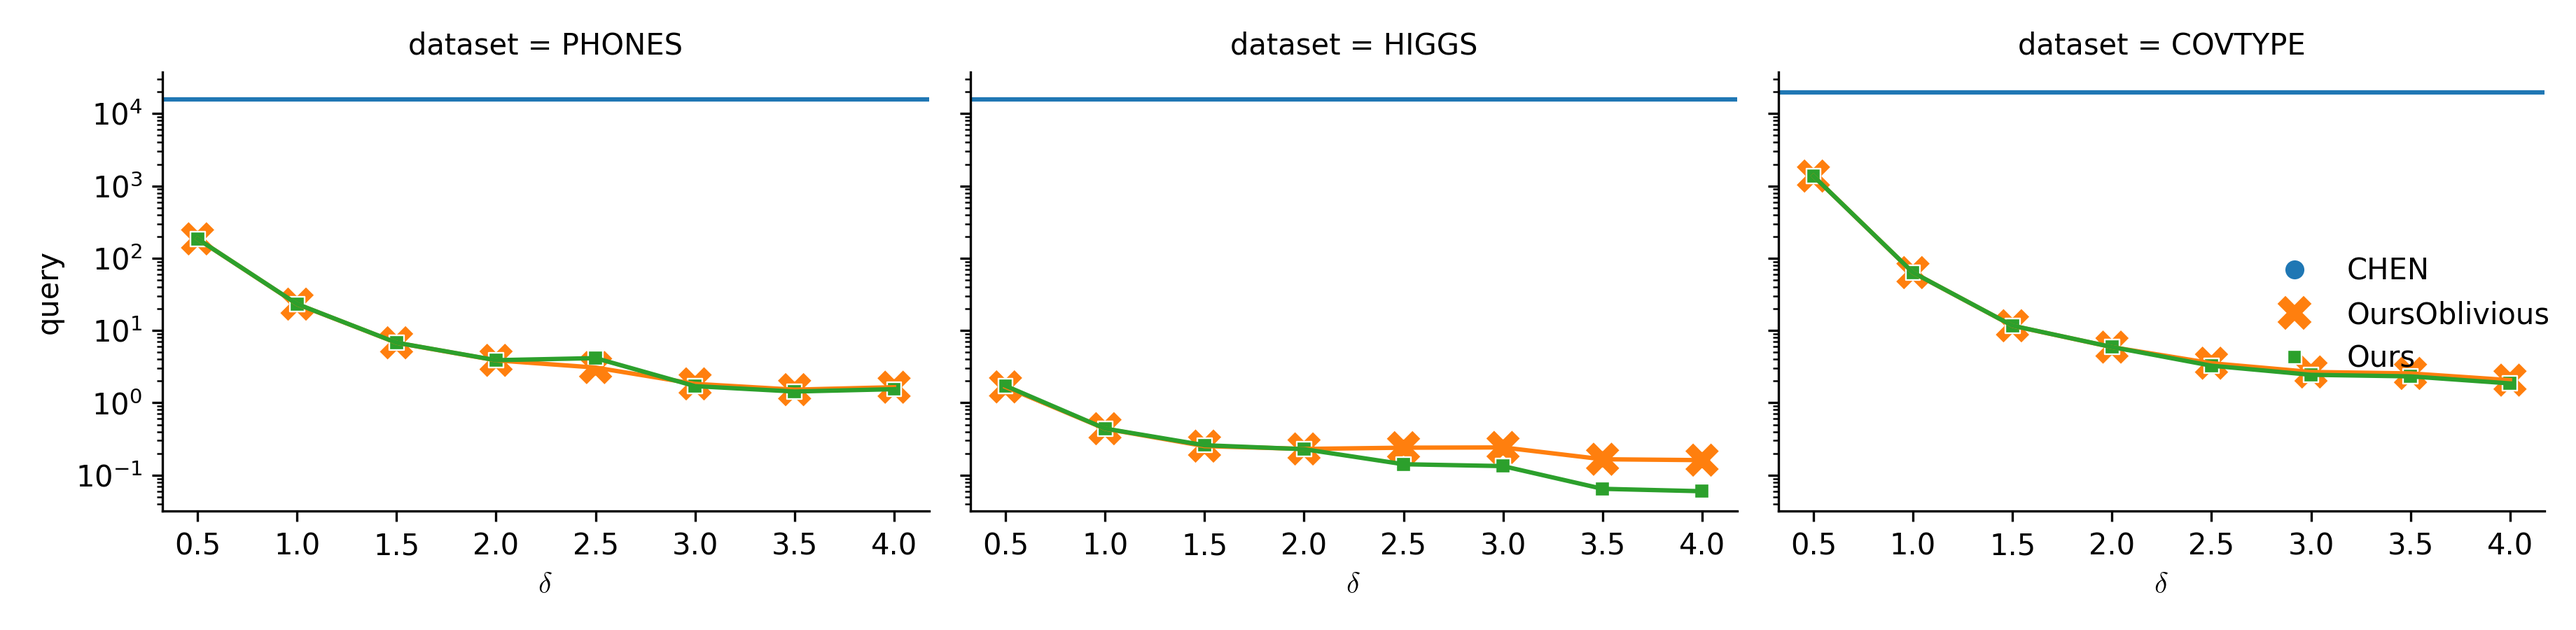
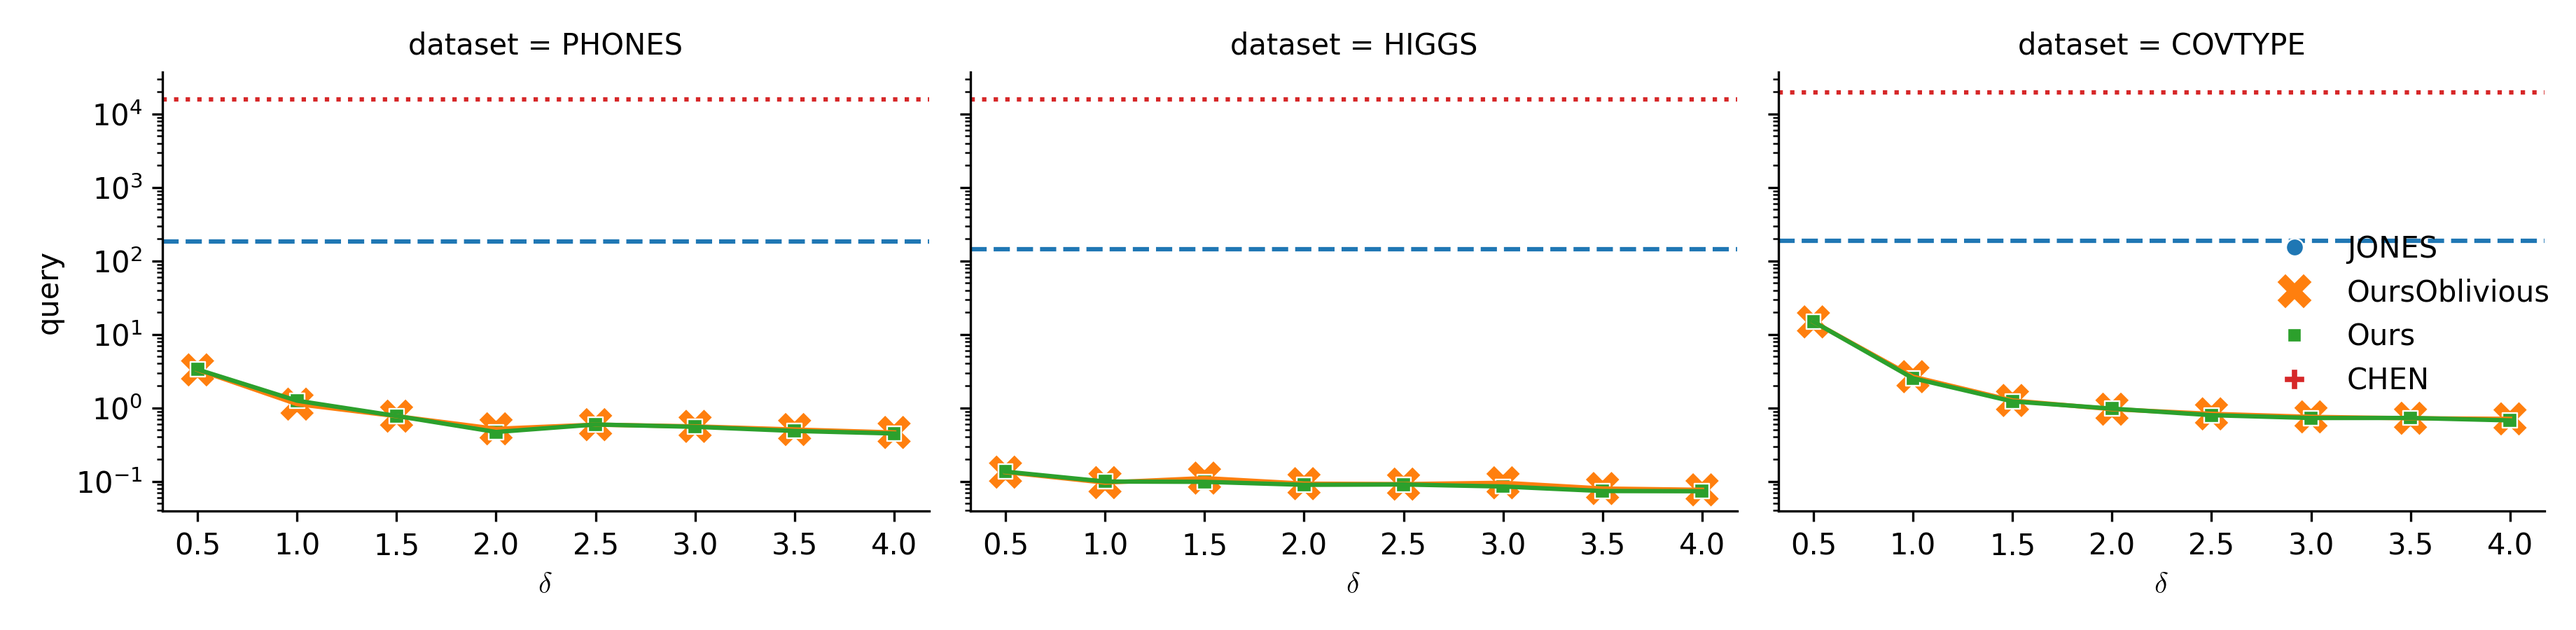
update plots

diff --git a/results/delta_lines.py b/results/delta_lines.py
@@ -1,3 +1,4 @@
+import os.path
 import numpy as np
 from icecream import ic
 import seaborn as sns
@@ -20,6 +21,13 @@ for i in datasets:
     file_names.append(x_axis + "_" + i)
 output_file = "graphs/" + type_of_graph + "_lines"
 
+COLORS = sns.color_palette()
+PALETTE = {
+    "JONES": COLORS[0],
+    "OursOblivious": COLORS[1],
+    "Ours": COLORS[2],
+    "CHEN": COLORS[3],
+}
 
 def replace_dots_with_commas(file_path):
     """
@@ -70,6 +78,13 @@ def filter(df):
         pl.col("dataset") != "NORMALIZED",
     )
     df = df.with_columns(
+        pl.col("update").str.replace(",", ".").cast(pl.Float64).alias("update"),
+        pl.col("query").str.replace(",", ".").cast(pl.Float64).alias("query"),
+        pl.col("radius").str.replace(",", ".").cast(pl.Float64).alias("radius"),
+        pl.col("memory").str.replace(",", ".").cast(pl.Float64).alias("memory"),
+        pl.col("ratio").str.replace(",", ".").cast(pl.Float64).alias("ratio"),
+    )
+    df = df.with_columns(
         pl.col("algorithm").str.extract(r"DELTA(\d+)").cast(pl.Float64).alias("delta") / 10
     )
     df = df.with_columns(
@@ -77,9 +92,9 @@ def filter(df):
     ).with_columns(
         pl.col("algorithm").str.replace(r"CAPPDELTA(\d+)", "Ours")
     ).filter(
-        pl.col("algorithm").is_in(["CHEN", "Ours", "OursOblivious"])
+        pl.col("algorithm").is_in(["JONES", "CHEN", "Ours", "OursOblivious"])
     )
-    df = df.filter(pl.col("wsize").is_in([10000, 50000, 500000]))
+    df = df.filter(pl.col("wsize").is_in([10000]))
     df = df.with_columns(
         ( pl.col("update") / 1e6 ).alias("update"),
         ( pl.col("query") / 1e6 ).alias("query")
@@ -88,19 +103,23 @@ def filter(df):
 
 
 def hline(data, **kwargs):
-    baseline = data[data["algorithm"] == "CHEN"]
+    baseline = data[data["algorithm"].isin(["JONES", "CHEN"])]
     ax = plt.gca()
-    for bline in baseline[kwargs["y"]]:
-        ax.axhline(bline, c=kwargs["color"])
+    for _, bline in baseline.iterrows():
+        color_group = bline["algorithm"]
+        yline = bline[kwargs["y"]]
+        ax.axhline(yline, 
+                   c=kwargs["palette"][color_group], 
+                   linestyle=kwargs["dashes"][color_group])
 
 
-def load(file):
-    input_file = "experiments_results/" + file + ".csv"
+def load(file, basedir="experiments_results/"):
+    input_file = basedir + file + ".csv"
     if replace_commas:
         replace_dots_with_commas(input_file)
     df = pl.read_csv(source=input_file, separator=";", infer_schema_length=10000)
     df = ( df
-        .with_columns(pl.lit(file.split("_")[1].upper())
+        .with_columns(pl.lit(file.split("_")[-1].upper())
         .alias("dataset"))
     )
     if "wsize" not in df.columns:
@@ -128,11 +147,15 @@ def read_and_plot_bar(output_file_path):
 
     dataframe = []
     for dataset in datasets:
-        file = "wsize_" + dataset
-        df = load(file)
+        # file = "wsize_jones_" + dataset
+        # df = load(file)
+        # dataframe.append(df)
+        file = "type_jones_" + dataset
+        df = load(file)#.filter(pl.col("algorithm") == "Ours")
         dataframe.append(df)
+        # Add CHEN results
         file = "type_" + dataset
-        df = load(file).filter(pl.col("algorithm") == "Ours")
+        df = load(file, "experiments_results/CHEN/").filter(pl.col("algorithm") == "CHEN")
         dataframe.append(df)
     dat = pl.concat(dataframe)
     dat = dat.filter(pl.col("wsize") == 10000)
@@ -152,6 +175,7 @@ def read_and_plot_bar(output_file_path):
             x="delta",  # x axis
             y=graph,  # y axis
             hue="algorithm",  # color
+            palette=PALETTE
         )
         g.map_dataframe(
             sns.scatterplot,  # barplot or lineplot
@@ -160,6 +184,7 @@ def read_and_plot_bar(output_file_path):
             hue="algorithm",  # color
             size="algorithm",
             style="algorithm",
+            palette=PALETTE,
             sizes=list( np.array([1, 1, 3]) * 50 ),
             size_order=["CHEN", "Ours", "OursOblivious"],
         )
@@ -167,13 +192,15 @@ def read_and_plot_bar(output_file_path):
             hline,
             y=graph,  # y axis
             hue="algorithm",  # color
+            palette=PALETTE,
+            dashes={"CHEN": ":", "JONES": "--"}
         )
         g.set_xlabels(r"$\delta$", usetex=True)
         g.add_legend()
         if graph == "query":
             plt.yscale("log")
         plt.tight_layout()
-        plt.savefig(ic(output_file_path + "_" + graph + ".png"), dpi=300)  # save plot
+        plt.savefig(output_file_path + "_" + graph + ".png", dpi=300)  # save plot
 
 
 # USE

diff --git a/results/wsize_lines.py b/results/wsize_lines.py
@@ -10,15 +10,23 @@ type_of_graph = "wsize"
 
 # Parameters
 x_axis = "wsize"
-y_axis = ["update", "query", "memory"] # we can omit the ratio because it is rather uninteresting: we always get the same result as Chen
+y_axis = ["query", "memory"] # we can omit the ratio and the update because it is rather uninteresting: we always get the same result as Chen
 color = "algorithm"
 
 # File to read from
 datasets = ["phones", "higgs", "covtype"]
 file_names = []
 for i in datasets:
-    file_names.append(x_axis + "_" + i)
+    file_names.append(x_axis + "_jones_" + i)
 output_file = "graphs/" + type_of_graph + "_lines"
+
+COLORS = sns.color_palette()
+PALETTE = {
+    "JONES": COLORS[0],
+    "OursOblivious": COLORS[1],
+    "Ours": COLORS[2],
+    "CHEN": COLORS[3],
+}
 
 
 def replace_dots_with_commas(file_path):
@@ -54,7 +62,6 @@ def replace_dots_with_commas(file_path):
     except Exception as e:
         print(f"An error occurred: {e}")
 
-
 def filter(df):
     """
     Filters the given DataFrame `df` depending on the type of graph.
@@ -67,8 +74,14 @@ def filter(df):
     """
     df = df.filter(
         pl.col("dataset") != "RANDOM",
-        pl.col("algorithm") != "PELLCAPP",
         pl.col("dataset") != "NORMALIZED",
+    )
+    df = df.with_columns(
+        pl.col("update").str.replace(",", ".").cast(pl.Float64).alias("update"),
+        pl.col("query").str.replace(",", ".").cast(pl.Float64).alias("query"),
+        pl.col("radius").str.replace(",", ".").cast(pl.Float64).alias("radius"),
+        pl.col("memory").str.replace(",", ".").cast(pl.Float64).alias("memory"),
+        pl.col("ratio").str.replace(",", ".").cast(pl.Float64).alias("ratio"),
     )
     df = df.with_columns(
         pl.col("algorithm").str.extract(r"DELTA(\d+)").cast(pl.Float64).alias("delta") / 10
@@ -78,14 +91,14 @@ def filter(df):
     ).with_columns(
         pl.col("algorithm").str.replace(r"CAPPDELTA(\d+)", "Ours")
     ).filter(
-        pl.col("algorithm").is_in(["CHEN", "Ours", "OursOblivious"])
+        pl.col("algorithm").is_in(["JONES", "CHEN", "Ours", "OursOblivious"])
     )
-    # df = df.filter(pl.col("wsize").is_in([10000, 50000, 500000]))
     df = df.with_columns(
         ( pl.col("update") / 1e6 ).alias("update"),
         ( pl.col("query") / 1e6 ).alias("query")
-    ).filter(pl.col("wsize") >= 10000)
+    )
     return df
+
 
 
 def hline(data, **kwargs):
@@ -111,19 +124,32 @@ def read_and_plot_bar(output_file_path):
         if file == "random" or file == "higgs":
             continue
         input_file = "experiments_results/" + file + ".csv"
+        ic(input_file)
         if replace_commas:
             replace_dots_with_commas(input_file)
         df = pl.read_csv(source=input_file, separator=";", infer_schema_length=10000)
-        df = df.with_columns(pl.lit(file.split("_")[1].upper()).alias("dataset"))
+        df = df.with_columns(pl.lit(file.split("_")[-1].upper()).alias("dataset"))
         # FILTERS
         df = filter(df)
         dataframe.append(df)
+
+        # Add CHEN results
+        input_file = "experiments_results/CHEN/" + file + ".csv"
+        input_file = input_file.replace("_jones", "")
+        df = pl.read_csv(source=input_file, separator=";", infer_schema_length=10000)
+        df = df.with_columns(pl.lit(file.split("_")[-1].upper()).alias("dataset"))
+        df = df.filter(
+            pl.col("algorithm") == "CHEN",
+            pl.col("wsize") >= 10000
+        )
+        df = filter(df)
+        dataframe.append(df)
+
     dat = ( pl
         .concat(dataframe)
         .filter(( pl.col("delta") == 0.5 ) | (pl.col("delta").is_null()))
     )
 
-    ic(dat)
 
     for graph in y_axis:
         g = sns.FacetGrid(
@@ -151,8 +177,8 @@ def read_and_plot_bar(output_file_path):
             hue="algorithm",  # color
             size="algorithm",
             style="algorithm",
-            sizes=list( np.array([1, 1, 2]) * 50 ),
-            size_order=["CHEN", "Ours", "OursOblivious"],
+            sizes=list( np.array([1, 1, 1, 2]) * 50 ),
+            size_order=["JONES", "CHEN", "Ours", "OursOblivious"],
         )
         g.set_xlabels("window size")
         g.add_legend()
